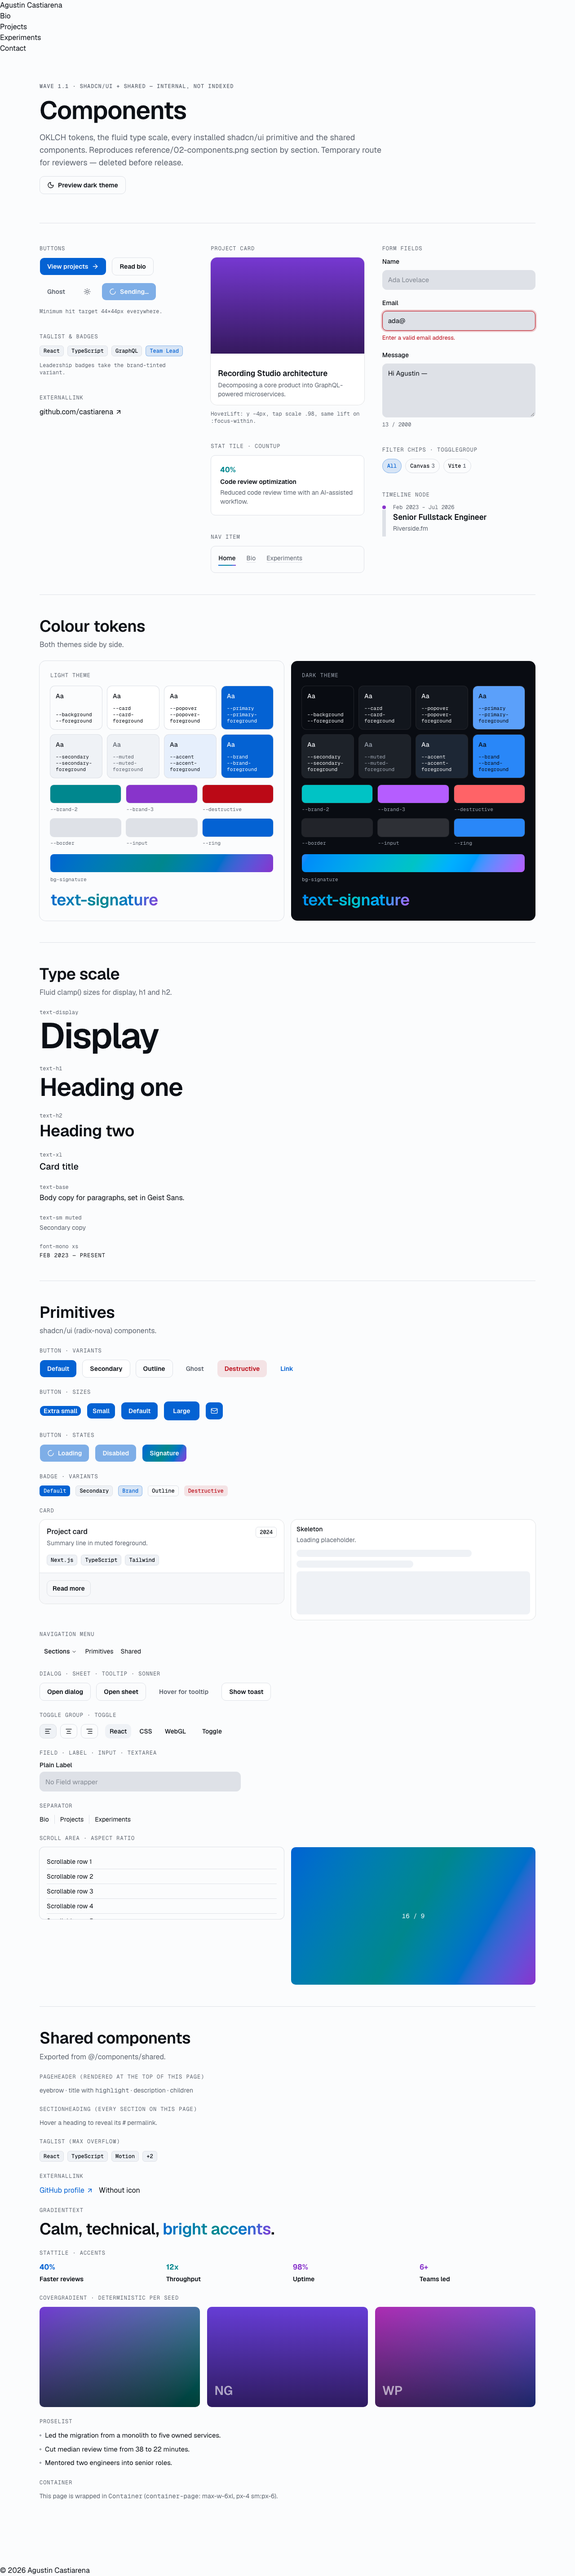
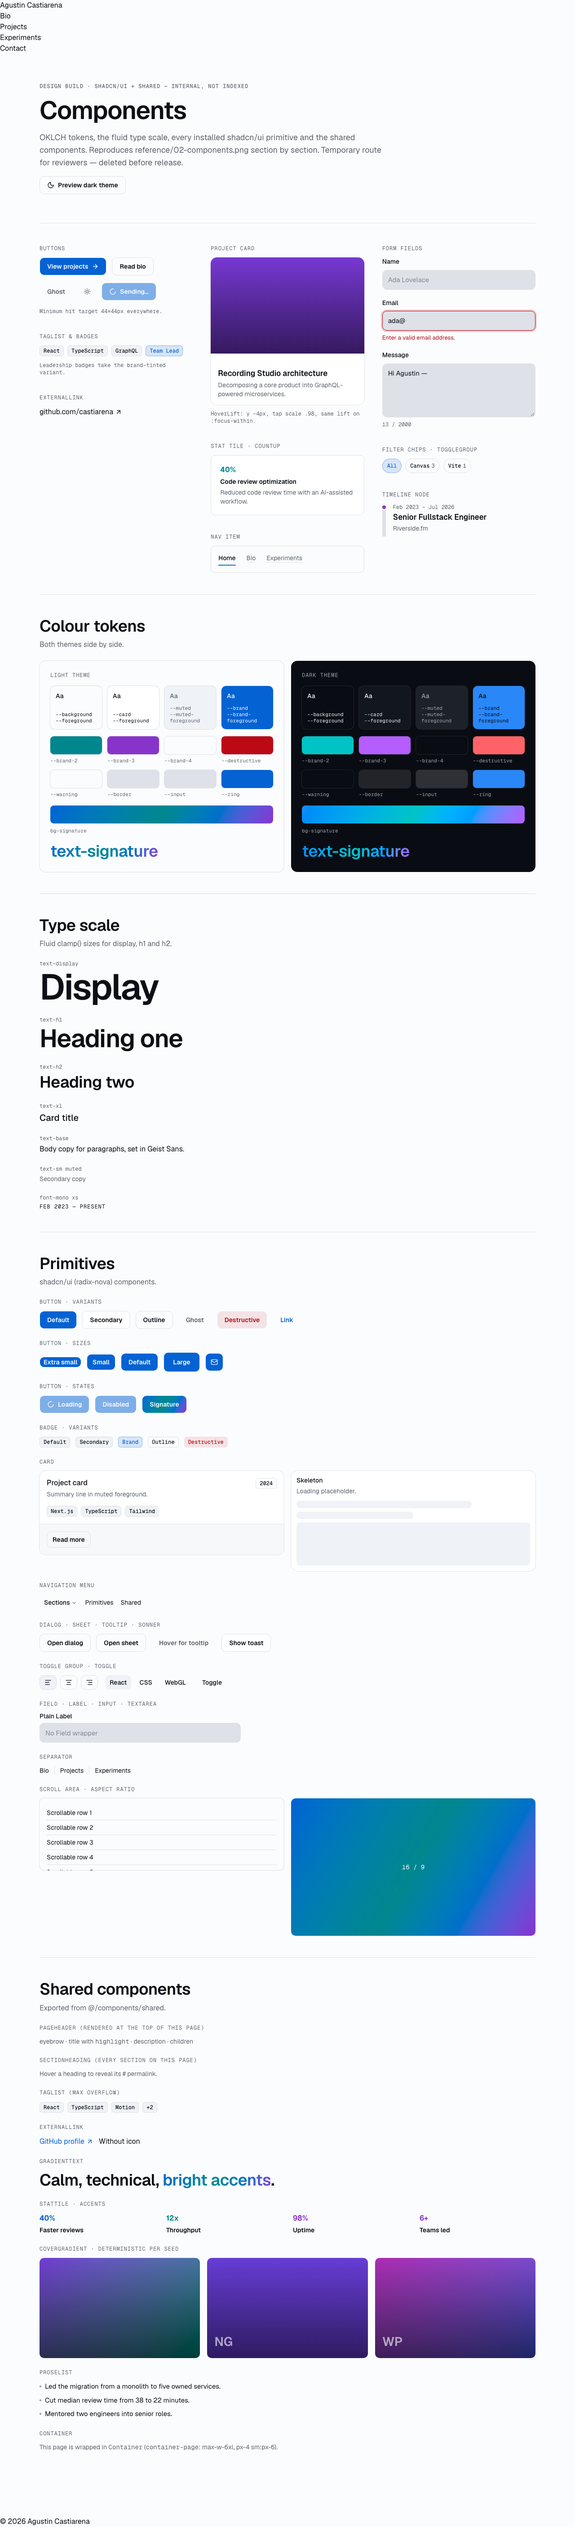
fix(F2): make shoot.mjs actually switch themes, drop dead colour swatches
Second gate pass found two defects: (1) scripts/shoot.mjs wrote localStorage.theme
but nothing reads it yet, so dark and light shots were byte-identical — fixed by
toggling .dark on <html> directly in the init script (with a DOMContentLoaded
fallback for the null-documentElement race) and asserting the two themes render
different <body> background colours, failing loudly if they don't. (2) the
styleguide's colour-token section referenced 8 tokens F1's real @theme inline map
doesn't define (popover/primary/secondary/accent, plus a separate card-foreground),
rendering as dead transparent swatches — replaced with the token set that actually
exists, and updated the stale "Wave 1.1" eyebrow to reflect the design build.

Verified by repeating the reviewer's trial merge (swapping in agent/F1's real
globals.css, rebuilding, re-shooting) and confirming every swatch renders solid and
the dark/light PNGs now have distinct md5s. A related deviation found only under
that trial merge — F1's globals.css has no .light class to force light inside an
ambient-dark page, so the colour section's light-theme panel can't demo itself once
merged — is documented in docs/handoffs/F2.md for F1, not worked around here.

diff --git a/src/app/styleguide/page.tsx b/src/app/styleguide/page.tsx
@@ -49,18 +49,25 @@ export const metadata: Metadata = {
   robots: { index: false, follow: false },
 }
 
+// Only tokens F1's `@theme inline` map actually defines (01-design-tokens.md) — no separate
+// popover/primary/secondary/accent surfaces, and `card` has no `-foreground` pairing of its own.
 const SURFACE_TOKENS = [
   ['background', 'foreground'],
-  ['card', 'card-foreground'],
-  ['popover', 'popover-foreground'],
-  ['primary', 'primary-foreground'],
-  ['secondary', 'secondary-foreground'],
+  ['card', 'foreground'],
   ['muted', 'muted-foreground'],
-  ['accent', 'accent-foreground'],
   ['brand', 'brand-foreground'],
 ] as const
 
-const SINGLE_TOKENS = ['brand-2', 'brand-3', 'destructive', 'border', 'input', 'ring'] as const
+const SINGLE_TOKENS = [
+  'brand-2',
+  'brand-3',
+  'brand-4',
+  'destructive',
+  'warning',
+  'border',
+  'input',
+  'ring',
+] as const
 
 const TYPE_SCALE = [
   { className: 'text-display font-semibold', label: 'text-display', sample: 'Display' },
@@ -154,7 +161,7 @@ function ThemePanel({ theme }: { theme: 'light' | 'dark' }) {
           </li>
         ))}
       </ul>
-      <ul className="grid grid-cols-3 gap-3" aria-label={`${theme} accent tokens`}>
+      <ul className="grid grid-cols-2 gap-3 sm:grid-cols-4" aria-label={`${theme} accent tokens`}>
         {SINGLE_TOKENS.map((token) => (
           <li key={token} className="flex flex-col gap-1.5">
             <span
@@ -180,7 +187,7 @@ export default function StyleguidePage() {
   return (
     <Container className="pb-24">
       <PageHeader
-        eyebrow="Wave 1.1 · shadcn/ui + shared — internal, not indexed"
+        eyebrow="Design build · shadcn/ui + shared — internal, not indexed"
         title="Components"
         description="OKLCH tokens, the fluid type scale, every installed shadcn/ui primitive and the shared components. Reproduces reference/02-components.png section by section. Temporary route for reviewers — deleted before release."
       >

diff --git a/docs/handoffs/F2.md b/docs/handoffs/F2.md
@@ -159,15 +159,30 @@ Screenshots: `docs/handoffs/assets/F2/styleguide-{1280,390}-{dark,light}.png`, s
 
 Deviations from the reference (intentional / known):
 
-- **Dark/light shots are currently identical.** `ThemeProvider` (`src/components/layout/`) is still
-  2.1's stub (`<>{children}</>`), so nothing ever adds a `.dark` class — `shoot.mjs`'s
-  `localStorage.theme` write has nothing to act on yet. I confirmed the harness itself works by
-  driving the style guide's own (temporary) `ThemePreviewToggle`, which toggles `.dark` directly with
-  `classList.toggle` — dark renders correctly (verified via computed styles, not just the
-  screenshot: card background lightness ≈7%, text ≈95%, brand ring box-shadow present on keyboard
-  focus). **Re-shoot both themes for real once 2.1 wires `next-themes`.**
-  `docs/handoffs/assets/F2/styleguide-forced-dark.png` is not committed (ad hoc verification only,
-  not part of the harness output) — reproduce with the in-page toggle if needed.
+- **Dark/light shots now actually differ.** Fixed in the second gate pass below — `shoot.mjs` sets
+  the `.dark` class itself (harness-level, doesn't wait on 2.1's `next-themes` wiring) and asserts
+  the two themes render different `<body>` background colours before trusting the PNGs.
+- **The "Colour tokens" section's light-theme panel can't force light once trial-merged with F1's
+  real `globals.css`.** `ThemePanel` forces a theme on a subtree by putting a literal `light` or
+  `dark` class on the wrapper div (`:root, .light { ... }` / `.dark { ... }`, see the comment at the
+  top of this branch's own `globals.css`). F1's actual token file only defines `:root` (light,
+  default) and `.dark` — there's no `.light` class rule, because F1 never needed one (light is just
+  "no `.dark` class"). A `.dark`-classed div still forces dark correctly (that rule exists and
+  matches directly regardless of ambient), but a `.light`-classed div has nothing to override
+  `--background` etc. with, so on a page with `.dark` on `<html>` it silently inherits the ambient
+  dark values instead. I found this by repeating the reviewer's trial merge locally (swapping in
+  `agent/F1`'s real `globals.css`, rebuilding, and reading back computed styles on both panels with
+  `.dark` forced on `<html>`) — invisible from inside this branch alone because this branch's own
+  `globals.css` still defines `.light`, and invisible in the previous gate pass because the harness
+  bug above meant `.dark` was never actually applied to `<html>` in the first place. I didn't fix
+  this myself: `globals.css` stays F1's file, and the honest fix is a `.light` class there mirroring
+  `.dark` (or U1/2.1 could make the ambient default light long enough for this temporary route to not
+  matter) — not a page-local hack like inlining hardcoded OKLCH values, which the QA checklist
+  (04 §3) explicitly forbids in `src/app/<route>` too. Only visible in the **dark** shot's "Colour
+  tokens" section, where both panels currently render the dark palette; the light shot is
+  unaffected. **F1:** please add `.light { color-scheme: light; }` alongside the token block, or,
+  if `:root` already covers it, an explicit `.light { --background: ...; ... }` block re-asserting
+  every token `.dark` overrides — happy to re-verify once that lands.
 - **Card/Input fill in dark theme reads lighter than the design.** `--card`/`--input`/`--border`
   are still 1.1's pre-reconciliation values (`00-STATE` §2 rows 3–4: `--input` is currently
   `oklch(1 0 0 / 15%)` translucent white; F1 is changing it to an opaque
@@ -291,3 +306,72 @@ over `src/components/ui` and `src/components/shared` ✅ (empty).
 
 Files touched in this pass: `src/components/ui/{card,dialog,sheet,navigation-menu,badge,field}.tsx`,
 `tests/unit/shared/theme-tokens.test.ts` (new), this file.
+
+## Follow-up — second gate pass (silent duplicate screenshots + dead swatches)
+
+A second gate check trial-merged `agent/F1` + `agent/F2` + `agent/F3` onto `next`, built it, served
+it and shot `/styleguide/` — and found two more defects, both mine to fix.
+
+**1. `scripts/shoot.mjs` produced byte-identical dark/light PNGs.** The harness only wrote
+`localStorage.theme` before load; nothing reads it (U1 wires `next-themes` later), so every shot
+rendered light regardless of the requested theme, and every downstream agent's "light theme"
+evidence would have been the same screenshot as their dark one. Fixed at the harness level, with no
+dependency on app wiring:
+
+- `addInitScript` now toggles the `.dark` class on `document.documentElement` directly, in addition
+  to writing `localStorage.theme`. This alone wasn't quite enough: `document.documentElement` can
+  still be `null` at the instant an init script runs (Playwright's `addInitScript` fires via CDP
+  before the parser has necessarily created `<html>`), so the class-toggle is wrapped in a
+  `document.documentElement ? applyNow() : addEventListener('DOMContentLoaded', applyNow)` fallback.
+  Without that guard the toggle silently threw inside the init script and `.dark` never got applied
+  at all — I caught this by logging `document.documentElement.className` after `networkidle` and
+  seeing no `dark` class in either theme, then reproducing the `TypeError: Cannot read properties of
+null (reading 'classList')` directly.
+- After each shot, the harness reads back `getComputedStyle(document.body).backgroundColor` and
+  compares dark vs. light per viewport once both are captured; if they match, it throws instead of
+  writing a fifth "looks fine" line to stdout. A harness that silently emits duplicate screenshots is
+  worse than one that errors — this makes that failure mode impossible to miss.
+- Verified: re-ran `node scripts/shoot.mjs --route /styleguide/ --out docs/handoffs/assets/F2` — all
+  four PNGs now have distinct md5s (previously dark/light were byte-identical at both viewports), and
+  the run exits 0 with no thrown error, confirming the theme switch actually took effect.
+
+**2. `/styleguide/` rendered 8 dead colour swatches and a stale eyebrow.** F1's real `@theme inline`
+map (verified against `agent/F1`'s actual `globals.css`, not this branch's stale copy — see the
+follow-up above) has no `popover`, `primary`, `secondary` or `accent` tokens, so all four pairs in
+`SURFACE_TOKENS` referencing them resolved `var(--popover)` etc. to nothing and rendered transparent.
+Fixed in `src/app/styleguide/page.tsx`:
+
+- `SURFACE_TOKENS` now lists only pairs that exist: `background`/`foreground`, `card`/`foreground`
+  (no separate `card-foreground` in F1's set), `muted`/`muted-foreground`, `brand`/`brand-foreground`.
+- `SINGLE_TOKENS` now lists `brand-2`, `brand-3`, `brand-4`, `destructive`, `warning`, `border`,
+  `input`, `ring` — `brand-4` and `warning` were missing from the old list even though both existed
+  as real tokens; every token in F1's map is now shown exactly once across the two swatch grids.
+- The eyebrow changed from `"Wave 1.1 · shadcn/ui + shared — internal, not indexed"` to
+  `"Design build · shadcn/ui + shared — internal, not indexed"` — the page is a reconciliation pass
+  for the design build, not a wave-1.1 artifact.
+- Verified by repeating the reviewer's method: swapped this branch's `globals.css` for `agent/F1`'s
+  real one (`git show agent/F1:src/app/globals.css`), rebuilt, re-shot `/styleguide/`, and read the
+  PNG back with the Read tool — every swatch in the "Colour tokens" section now renders a solid
+  colour, none transparent. Reverted the swap afterward (`globals.css` stays F1's file; this
+  branch's own copy is unchanged).
+
+**New deviation found while verifying (not fixed here, documented above under Visual QA):** with
+F1's real `globals.css` in place and `.dark` actually forced on `<html>` (only possible to observe
+once defect 1 above was fixed), the "Colour tokens" section's light-theme panel can no longer force
+itself light — F1's file has no `.light` class rule to override the inherited dark values with
+(`.dark` exists and matches directly; light is just "the absence of `.dark`", so a `.light`-classed
+subtree has nothing overriding it). Invisible in every prior gate pass because either this branch's
+own `globals.css` still defines `.light`, or `.dark` was never actually reaching `<html>` in the
+first place (defect 1). Flagged for F1 rather than worked around with hardcoded colours, which the
+QA checklist forbids in `src/app/<route>` too.
+
+Full gate re-run: `pnpm lint` ✅, `pnpm typecheck` ✅, `pnpm test -- --run` — 172/172 ✅ (unchanged —
+no components under `src/components` changed in this pass), `pnpm build` ✅ (12 routes), `node
+scripts/verify-export.mjs` ✅ (9 passed, 2 expected warnings, unchanged), `pnpm format:check` ✅
+(prettier reformatted the one long line in `shoot.mjs`'s background-colour read), the hex/rgb/oklch
+grep over `src/components/ui`, `src/components/shared` and `src/app/styleguide` ✅ (empty).
+Re-shot `/styleguide/`, overwriting `docs/handoffs/assets/F2/styleguide-{1280,390}-{dark,light}.png`
+and `compare-styleguide-1280-dark.png` with corrected evidence (dark/light now genuinely differ).
+
+Files touched in this pass: `scripts/shoot.mjs`, `src/app/styleguide/page.tsx`,
+`docs/handoffs/assets/F2/*.png` (re-shot), this file.
